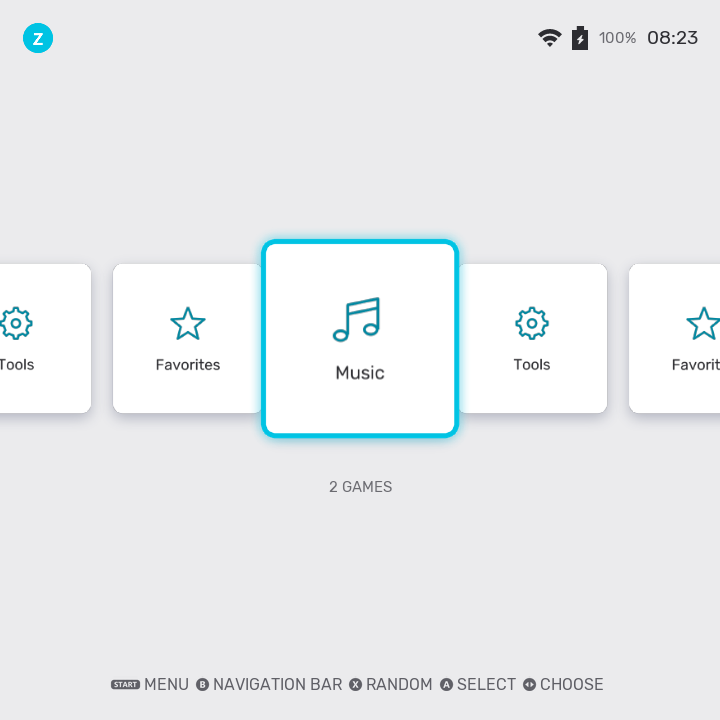
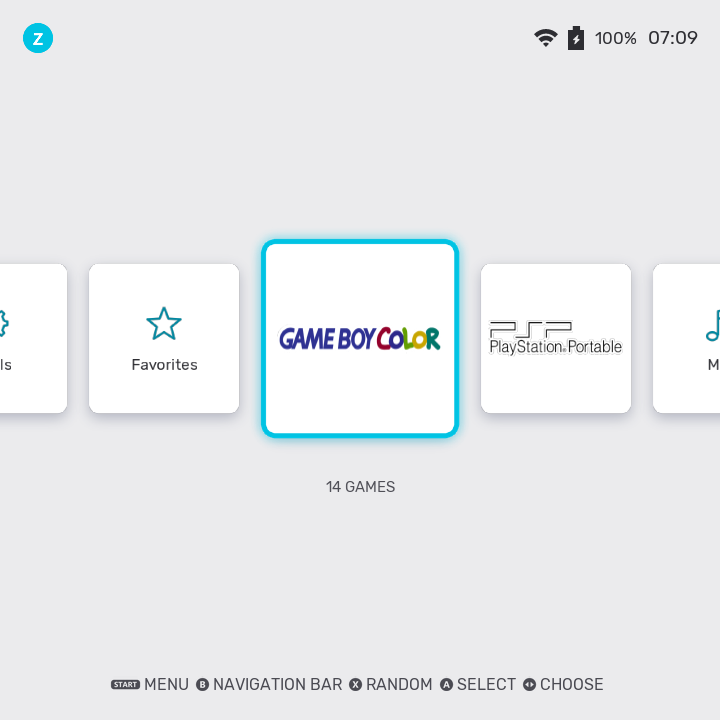
docs: new README screenshots (English, dark and light, game lists with covers)

diff --git a/README.md b/README.md
@@ -13,11 +13,15 @@ reliable suspend, its own light/dark EmulationStation theme and a cleaner Tools 
 
 ## Screenshots
 
-R36 Ultra, 720x720. The dark theme ships with a light variant.
+R36 Ultra, 720x720. Dark and light variants of the Zenith theme.
 
-| Start-up | Main menu (dark) | Main menu (light) | Settings menu |
-|:---:|:---:|:---:|:---:|
-| <img src="docs/images/splash.png" width="200"> | <img src="docs/images/main-dark.png" width="200"> | <img src="docs/images/main-light.png" width="200"> | <img src="docs/images/menu-dark.png" width="200"> |
+| Start-up | Main menu (dark) | Main menu (light) |
+|:---:|:---:|:---:|
+| <img src="docs/images/splash.png" width="230"> | <img src="docs/images/main-dark.png" width="230"> | <img src="docs/images/main-light.png" width="230"> |
+| **Game list (dark)** | **Game list (light)** | **Settings menu** |
+| <img src="docs/images/list-dark.png" width="230"> | <img src="docs/images/list-light.png" width="230"> | <img src="docs/images/menu-dark.png" width="230"> |
+
+The game lists use a small demo set of Game Boy Color games with scraped covers; Zenith does not ship any games.
 
 ## What's different from AURKNIX
 
